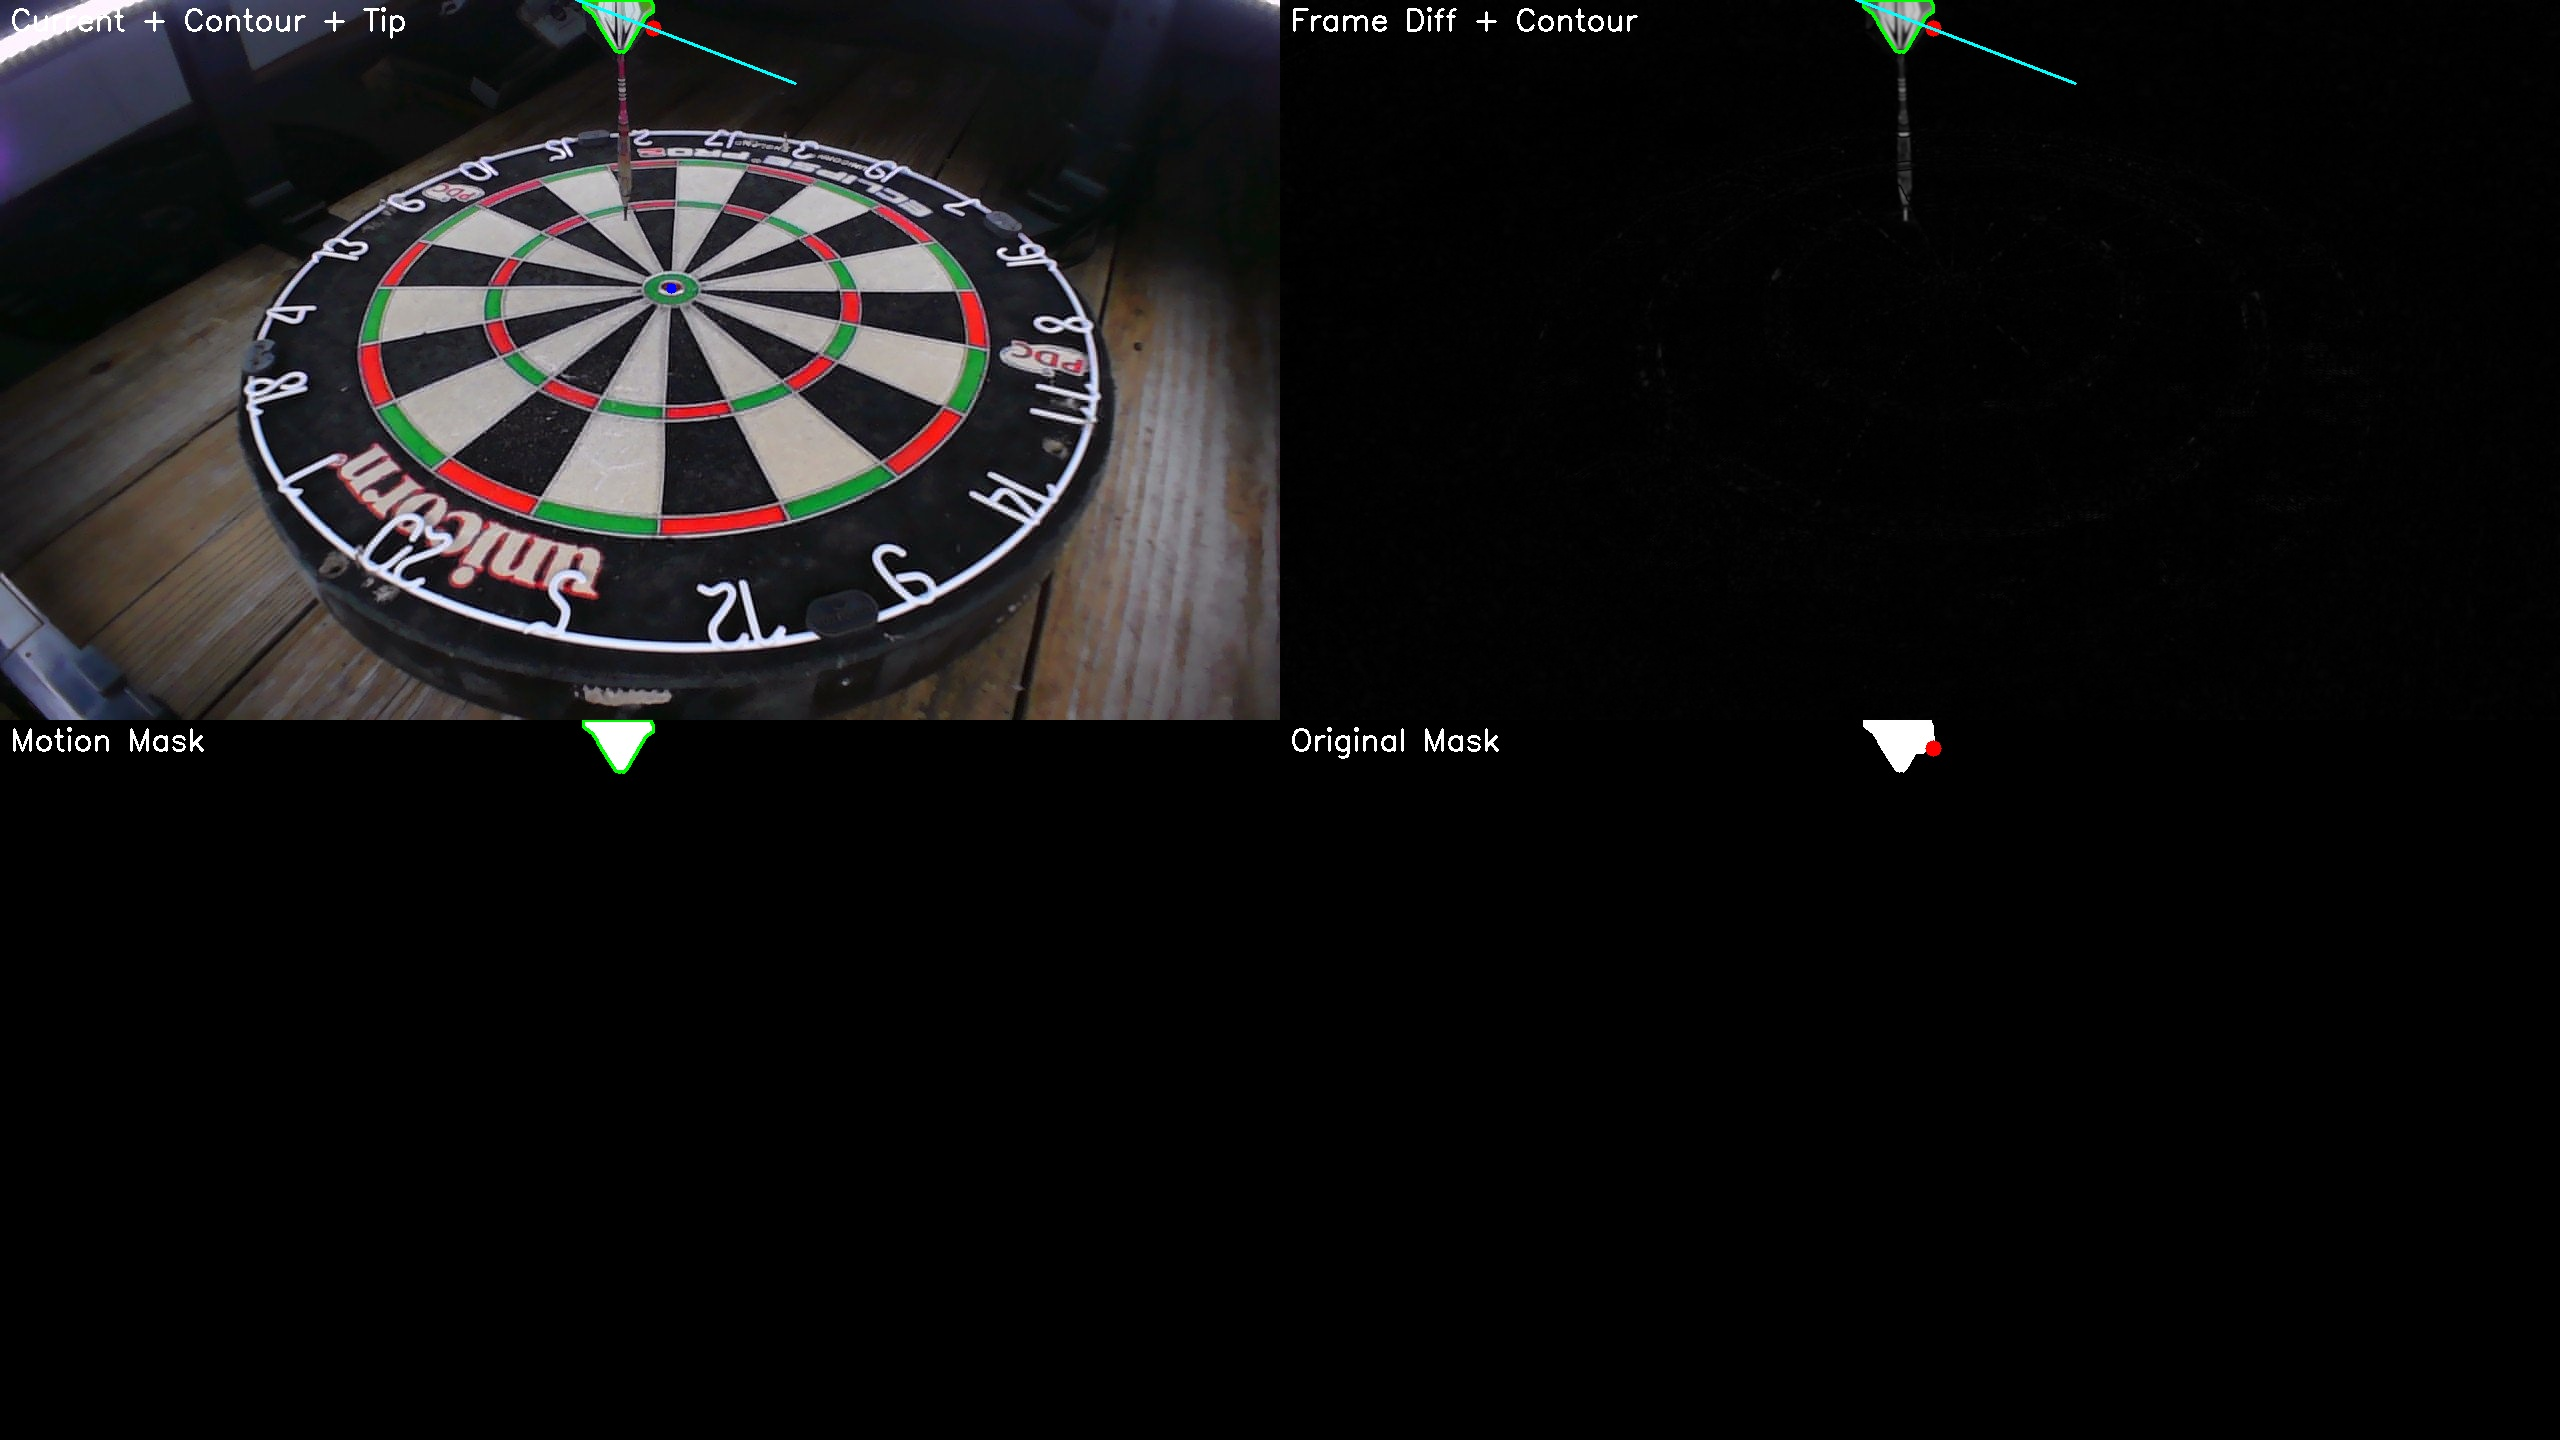
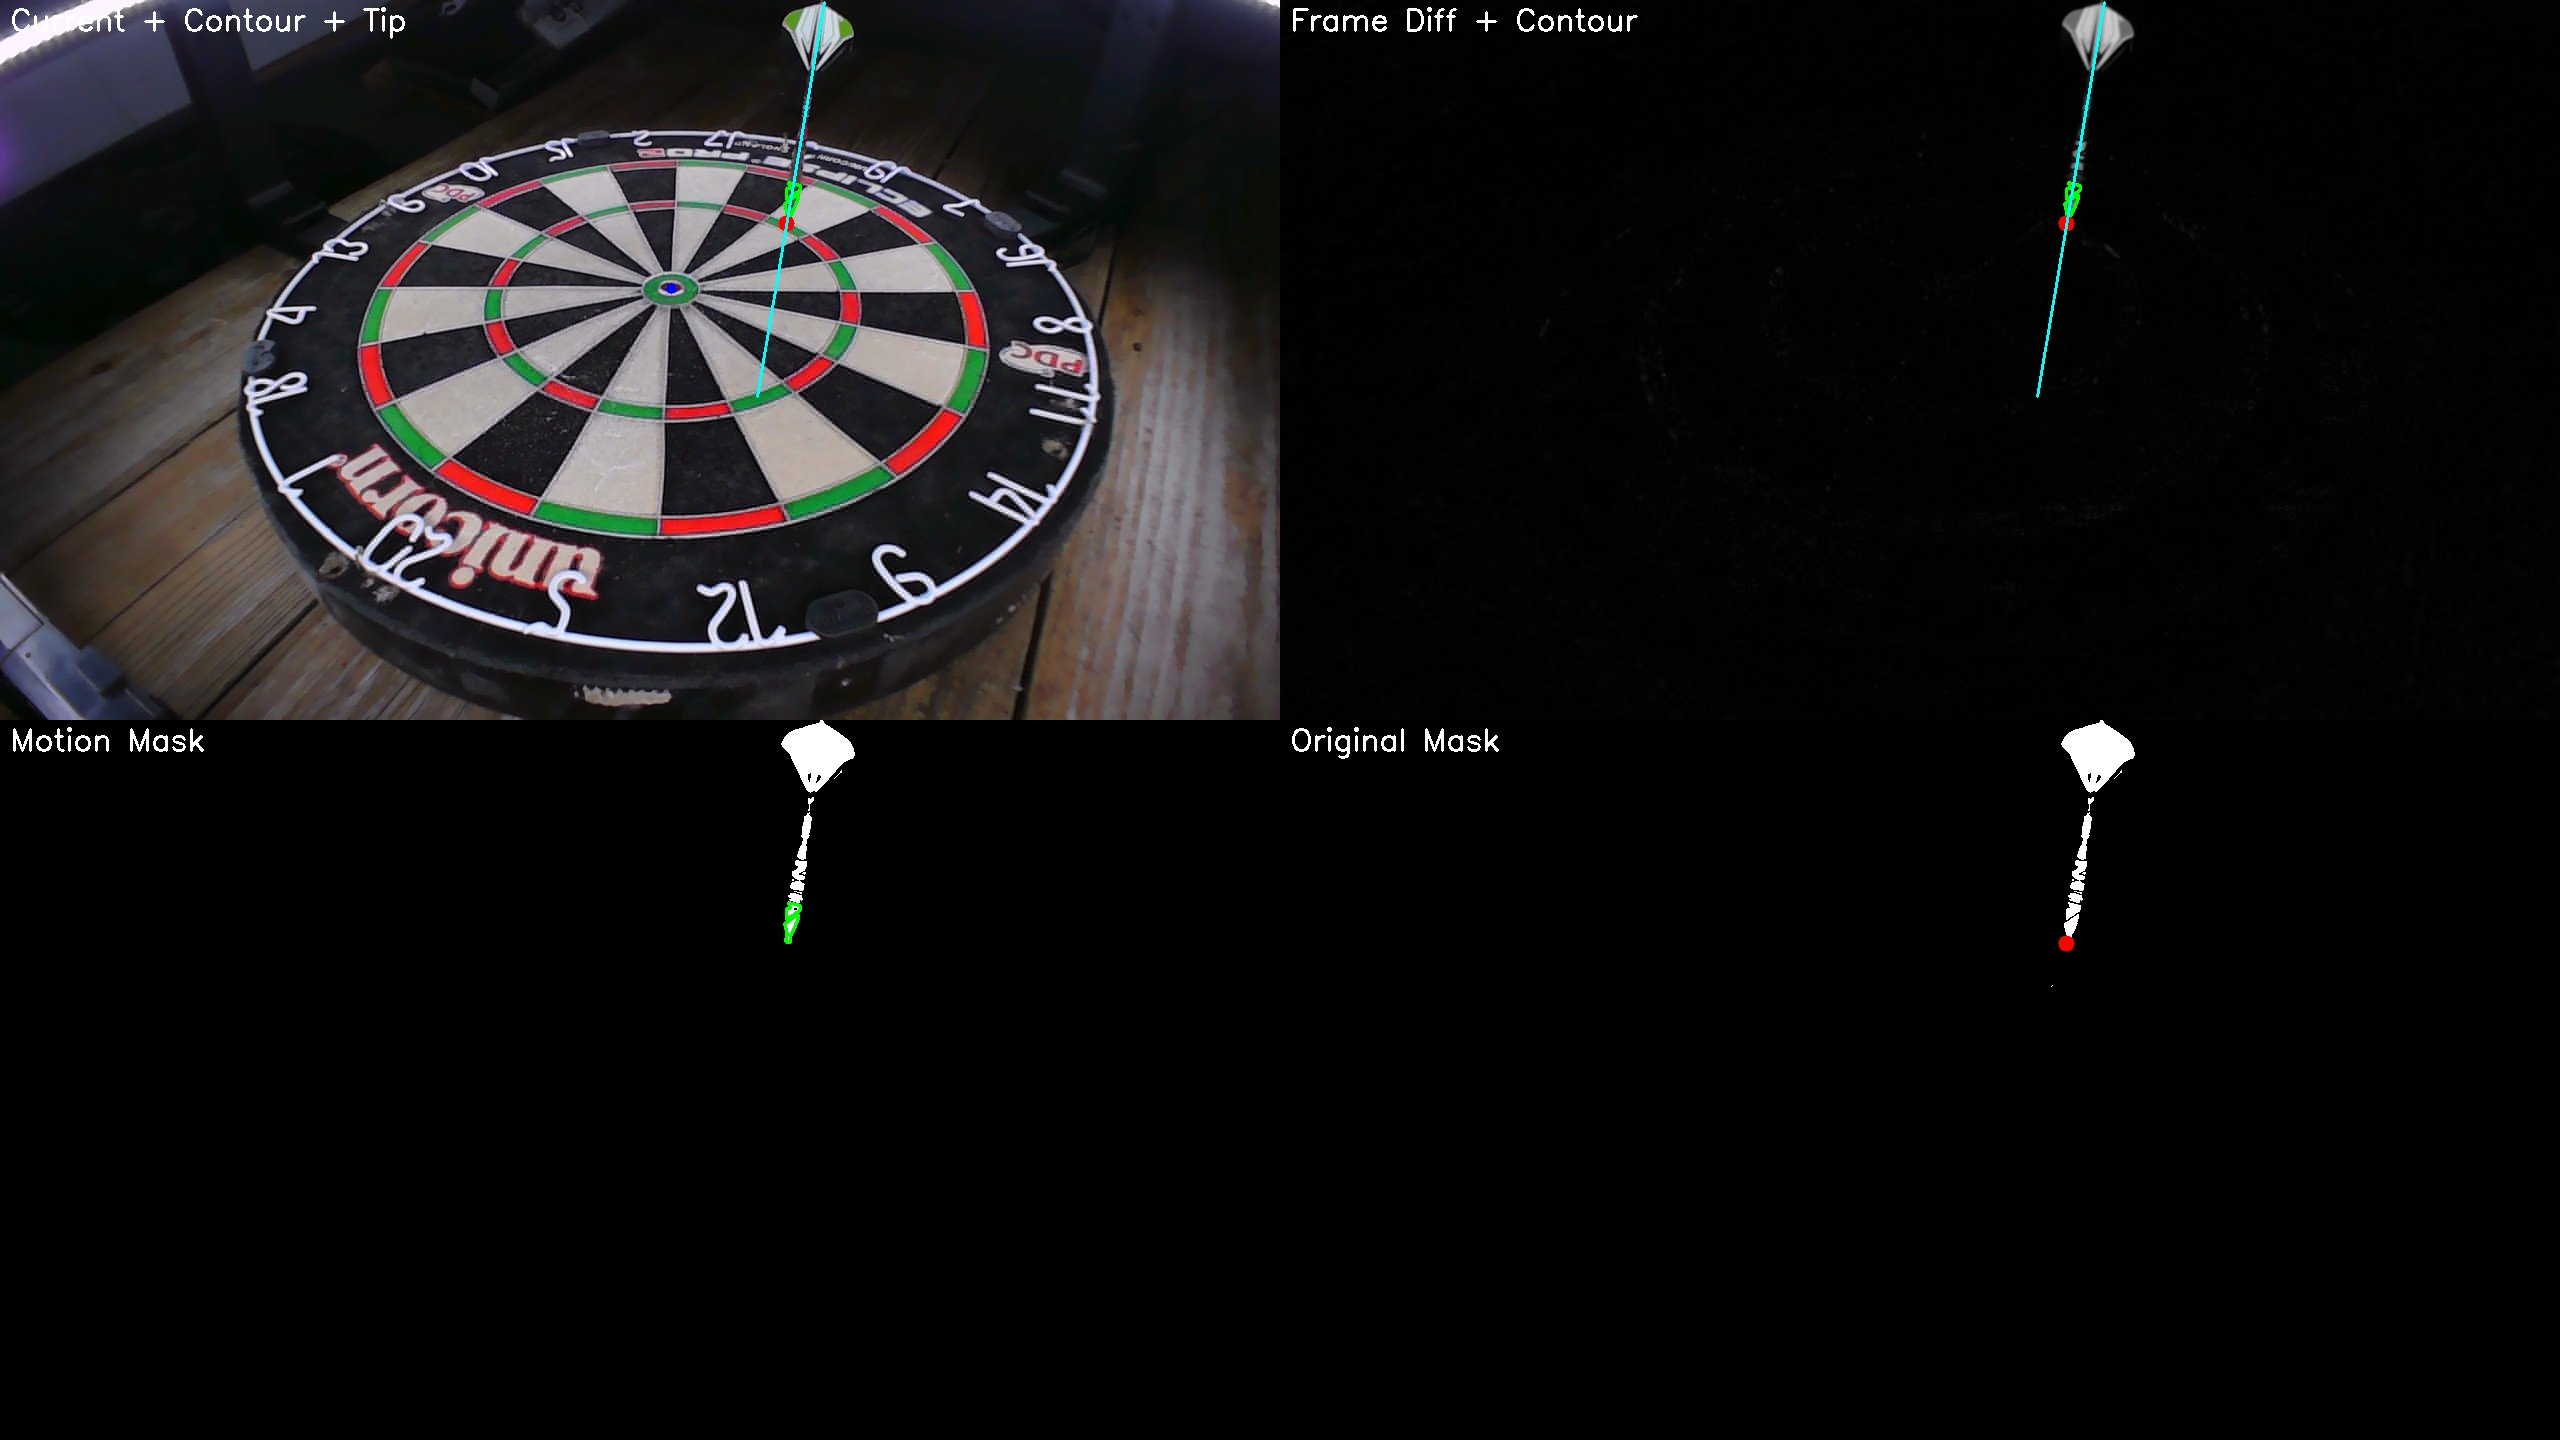
Angle-independent blob bridging: large elliptical kernel + dilate/erode merge

diff --git a/app/core/skeleton_detection.py b/app/core/skeleton_detection.py
@@ -696,9 +696,14 @@ def get_adaptive_motion_mask(current_frame, previous_frame, camera_id=None,
     
     # STEP 4: Bridge gaps between flight and shaft blobs
     # The dart barrel/grip can be similar to background, creating a gap
-    # Use morphological closing with a tall kernel to connect nearby blobs
-    bridge_kernel = cv2.getStructuringElement(cv2.MORPH_RECT, (5, 25))
-    motion_mask_bridged = cv2.morphologyEx(motion_mask, cv2.MORPH_CLOSE, bridge_kernel)
+    # Use morphological closing with a large round kernel (angle-independent)
+    # Then dilate slightly to merge close blobs
+    bridge_kernel = cv2.getStructuringElement(cv2.MORPH_ELLIPSE, (15, 15))
+    motion_mask_bridged = cv2.morphologyEx(motion_mask, cv2.MORPH_CLOSE, bridge_kernel, iterations=2)
+    # Also try dilate+erode to merge nearby blobs
+    dilate_kernel = cv2.getStructuringElement(cv2.MORPH_ELLIPSE, (20, 20))
+    motion_mask_bridged = cv2.dilate(motion_mask_bridged, dilate_kernel, iterations=1)
+    motion_mask_bridged = cv2.erode(motion_mask_bridged, dilate_kernel, iterations=1)
     # Use bridged mask for contour selection, but keep original for detail
     blob_contours, _ = cv2.findContours(motion_mask_bridged, cv2.RETR_EXTERNAL, cv2.CHAIN_APPROX_SIMPLE)
     if blob_contours:
